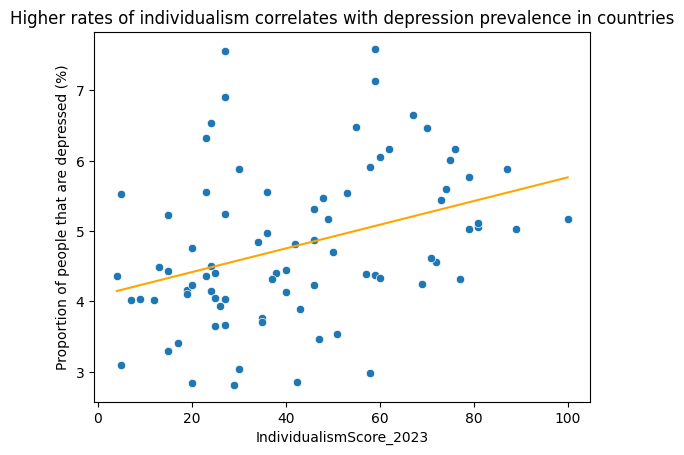
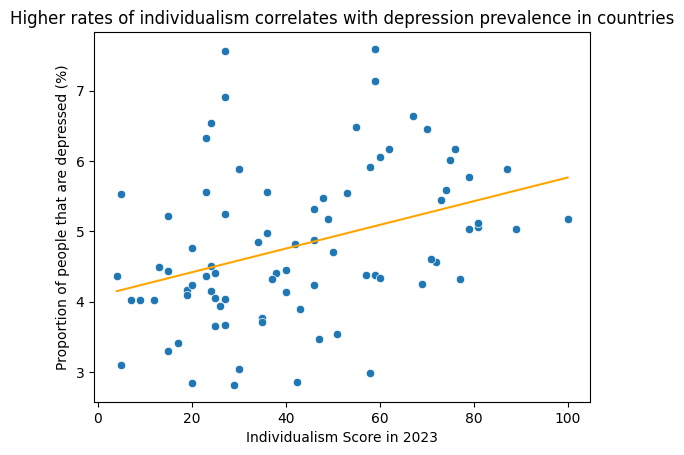
changed countries title's and added line breaks

diff --git a/analysis.py b/analysis.py
@@ -93,6 +93,7 @@ mappingPerceivedComfortSpeakingAboutDepressionAnxiety = {'share__question_mh5__s
 'share__question_mh5__someone_local_comfortable_speaking_about_anxiety_depression_with_someone_they_know__answer_not_at_all_comfortable__gender_all__age_group_all': 'Proportion of people not comfortable\nspeaking about anxiety/depression (%)',
 'very_comfortable and somewhat_comfortable': 'Proportion of people very or somewhat comfortable\nspeaking about anxiety/depression (%)'}
 
+mappingIndidividualism = {'IndividualismScore_2023': 'Individualism Score in 2023'}
 
 # removing all countries and terrorities in depression prevalence dataset that are in ourworldindata but not in depression prevalence dataset
 depressionPrevalence = remove_rows_from_df(depressionPrevalence, 'metric_name', ['Number', 'Rate'])
@@ -102,6 +103,7 @@ mentalIssuesDealtByFriendsFamily = mentalIssuesDealtByFriendsFamily.rename(colum
 mentalIssuesDealtByReligionSpirituality = mentalIssuesDealtByReligionSpirituality.rename(columns=mappingReligiousSpirituality)
 mentalIssuesDealtByMedication = mentalIssuesDealtByMedication.rename(columns=mappingMedication)
 perceivedComfortSpeakingAboutAnxietyDepression = perceivedComfortSpeakingAboutAnxietyDepression.rename(columns=mappingPerceivedComfortSpeakingAboutDepressionAnxiety)
+individualisticLevels = individualisticLevels.rename(columns=mappingIndidividualism)
 
 # removing unnecessary data
 mentalIssuesDealtByFriendsFamily = remove_rows_from_ourworldindata_datasets(mentalIssuesDealtByFriendsFamily, listOfRemovalOfTerritoriesContinentsAndCategoriesOfCountry)
@@ -202,7 +204,7 @@ fig, ax, mergedDataset = explore_data_ourworldindata_ihme(amountOfPsychiatristsW
 ax.set_xlim(-0.5, 20)
 
 # good line
-explore_data_ourworldindata_ihme(individualisticLevels, depressionPrevalence, 'IndividualismScore_2023', mentalIssueLocationColumn='country')
+explore_data_ourworldindata_ihme(individualisticLevels, depressionPrevalence, 'Individualism Score in 2023', mentalIssueLocationColumn='country')
 
 # create correlation heatmap for all variables
 listOfMentalHealthDatasets = [mentalIssuesDealtByMedication, mentalIssuesDealtByReligionSpirituality, amountOfPsychiatristsWorking2020, perceivedComfortSpeakingAboutAnxietyDepression, opinionThatScienceHelpsALotForMentalHealth]
@@ -250,7 +252,7 @@ sns.heatmap(correlationMatrix,annot=True)
 GDPColumnName = 'GDP per capita, PPP (constant 2017 international $)'
 
 # good line
-fig,ax, mergedDataset = explore_data_ourworldindata_ihme(mergedDataset=mentalIssueDealtyByMasterDataset, mentalIssueDataColumn=GDPColumnName, depressionDataColumn='IndividualismScore_2023')
+fig,ax, mergedDataset = explore_data_ourworldindata_ihme(mergedDataset=mentalIssueDealtyByMasterDataset, mentalIssueDataColumn=GDPColumnName, depressionDataColumn='Individualism Score in 2023')
 
 ax.set_xlim(0, 60000)
 
@@ -265,18 +267,18 @@ plt.close('all')
 # final graphs
 export = True
 explore_data_ourworldindata_ihme(mergedDataset=mentalIssueDealtyByMasterDataset, mentalIssueDataColumn=GDPColumnName, depressionDataColumn='Proportion that engaged in religious/spiritual activities\nwhen anxious/depressed (%)', title='The higher the gdp per capita, the less religious or spiritual activities are relied upon', export=export)
-explore_data_ourworldindata_ihme(mergedDataset=mentalIssueDealtyByMasterDataset, mentalIssueDataColumn=GDPColumnName, depressionDataColumn='IndividualismScore_2023', title='The higher the gdp per capita, the more individualistic countries are', export=export)
+explore_data_ourworldindata_ihme(mergedDataset=mentalIssueDealtyByMasterDataset, mentalIssueDataColumn=GDPColumnName, depressionDataColumn='Individualism Score in 2023', title='The higher the gdp per capita, the more individualistic countries are', export=export)
 #explore_data_ourworldindata_ihme(opinionThatScienceHelpsALotForMentalHealth, depressionPrevalence, 'GDP per capita, PPP (constant 2017 international $)', title='') - failed statistical test
-explore_data_ourworldindata_ihme(mentalIssuesDealtByFriendsFamily, depressionPrevalence, mappingFriendsAndFamily['Share - Question: mh8c - Talked to friends or family when anxious/depressed - Answer: Yes - Gender: all - Age group: all'], title='When people talk about their depression or anxiety to friends or family\nthey are less depressed or anxious', export=export)
+explore_data_ourworldindata_ihme(mentalIssuesDealtByFriendsFamily, depressionPrevalence, mappingFriendsAndFamily['Share - Question: mh8c - Talked to friends or family when anxious/depressed - Answer: Yes - Gender: all - Age group: all'], title='When people talk about their depression or anxiety to friends or family\nthey are less anxious or depressed', export=export)
 explore_data_ourworldindata_ihme(mentalIssuesDealtByReligionSpirituality, depressionPrevalence, mappingReligiousSpirituality['Share - Question: mh8b - Engaged in religious/spiritual activities when anxious/depressed - Answer: Yes - Gender: all - Age group: all'], title='When people are more engaged in religious or spiritual activity\nthey are less anxious or depressed', export=export)
 explore_data_ourworldindata_ihme(mergedDataset=mentalIssueDealtyByMasterDataset, mentalIssueDataColumn=mappingReligiousSpirituality['Share - Question: mh8b - Engaged in religious/spiritual activities when anxious/depressed - Answer: Yes - Gender: all - Age group: all'], depressionDataColumn=mappingFriendsAndFamily['Share - Question: mh8c - Talked to friends or family when anxious/depressed - Answer: Yes - Gender: all - Age group: all'], title='Talking to friends and family \nand doing religious or spiritual activity are related', export=export)
-explore_data_ourworldindata_ihme(mergedDataset=mentalIssueDealtyByMasterDataset, mentalIssueDataColumn=mappingReligiousSpirituality['Share - Question: mh8b - Engaged in religious/spiritual activities when anxious/depressed - Answer: Yes - Gender: all - Age group: all'], depressionDataColumn='IndividualismScore_2023', title='Religious or spiritual countries are much less individualistic than less religious or spiritual countries', export=export)
-explore_data_ourworldindata_ihme(mergedDataset=mentalIssueDealtyByMasterDataset, mentalIssueDataColumn=mappingFriendsAndFamily['Share - Question: mh8c - Talked to friends or family when anxious/depressed - Answer: Yes - Gender: all - Age group: all'], depressionDataColumn='IndividualismScore_2023', title='Countries of all levels of individualism talk to friends or family to\nvarying degrees about anxiety or depression', export=export)
+explore_data_ourworldindata_ihme(mergedDataset=mentalIssueDealtyByMasterDataset, mentalIssueDataColumn=mappingReligiousSpirituality['Share - Question: mh8b - Engaged in religious/spiritual activities when anxious/depressed - Answer: Yes - Gender: all - Age group: all'], depressionDataColumn='Individualism Score in 2023', title='More religious or spiritual countries are less individualistic\nthan less religious or spiritual countries', export=export)
+explore_data_ourworldindata_ihme(mergedDataset=mentalIssueDealtyByMasterDataset, mentalIssueDataColumn=mappingFriendsAndFamily['Share - Question: mh8c - Talked to friends or family when anxious/depressed - Answer: Yes - Gender: all - Age group: all'], depressionDataColumn='Individualism Score in 2023', title='Countries of all levels of individualism talk to friends or family at\nvarying degrees about anxiety or depression', export=export)
 
-explore_data_ourworldindata_ihme(mergedDataset=mentalIssueDealtyByMasterDataset, mentalIssueDataColumn='IndividualismScore_2023', title='Higher rates of individualism correlates with depression prevalence in countries', export=export)
+explore_data_ourworldindata_ihme(mergedDataset=mentalIssueDealtyByMasterDataset, mentalIssueDataColumn='Individualism Score in 2023', title='Higher rates of individualism correlates with depression prevalence in countries', export=export)
 
 fig,ax=plt.subplots()
-sns.histplot(mentalIssueDealtyByMasterDataset, x='IndividualismScore_2023', y=mappingFriendsAndFamily['Share - Question: mh8c - Talked to friends or family when anxious/depressed - Answer: Yes - Gender: all - Age group: all'])
+sns.histplot(mentalIssueDealtyByMasterDataset, x='Individualism Score in 2023', y=mappingFriendsAndFamily['Share - Question: mh8c - Talked to friends or family when anxious/depressed - Answer: Yes - Gender: all - Age group: all'])
 
 fig, ax = plt.subplots()
 sns.heatmap(correlationMatrix,annot=True)
@@ -285,7 +287,7 @@ fig, ax= plt.subplots(2)
 stats.probplot(mentalIssueDealtyByMasterDataset['Proportion that engaged in religious/spiritual activities\nwhen anxious/depressed (%)'], fit=True, plot=ax[0])
 sns.histplot(x=mentalIssueDealtyByMasterDataset['Proportion that engaged in religious/spiritual activities\nwhen anxious/depressed (%)'], ax=ax[1])
 fig, ax= plt.subplots()
-stats.probplot(mentalIssueDealtyByMasterDataset['IndividualismScore_2023'], fit=True, plot=ax)
+stats.probplot(mentalIssueDealtyByMasterDataset['Individualism Score in 2023'], fit=True, plot=ax)
 fig, ax= plt.subplots(2)
 stats.probplot(mentalIssueDealtyByMasterDataset['Proportion of people that are depressed (%)'], fit=True, plot=ax[0])
 sns.histplot(mentalIssueDealtyByMasterDataset['Proportion of people that are depressed (%)'], ax=ax[1])
@@ -297,7 +299,7 @@ fig, ax=plt.subplots()
 importantVariables = [
     'Proportion of people that are depressed (%)',
     'Proportion that engaged in religious/spiritual activities\nwhen anxious/depressed (%)', 
-    'IndividualismScore_2023', 
+    'Individualism Score in 2023', 
     mappingFriendsAndFamily['Share - Question: mh8c - Talked to friends or family when anxious/depressed - Answer: Yes - Gender: all - Age group: all'], 
     mappingReligiousSpirituality['Share - Question: mh8b - Engaged in religious/spiritual activities when anxious/depressed - Answer: Yes - Gender: all - Age group: all']
 ]
